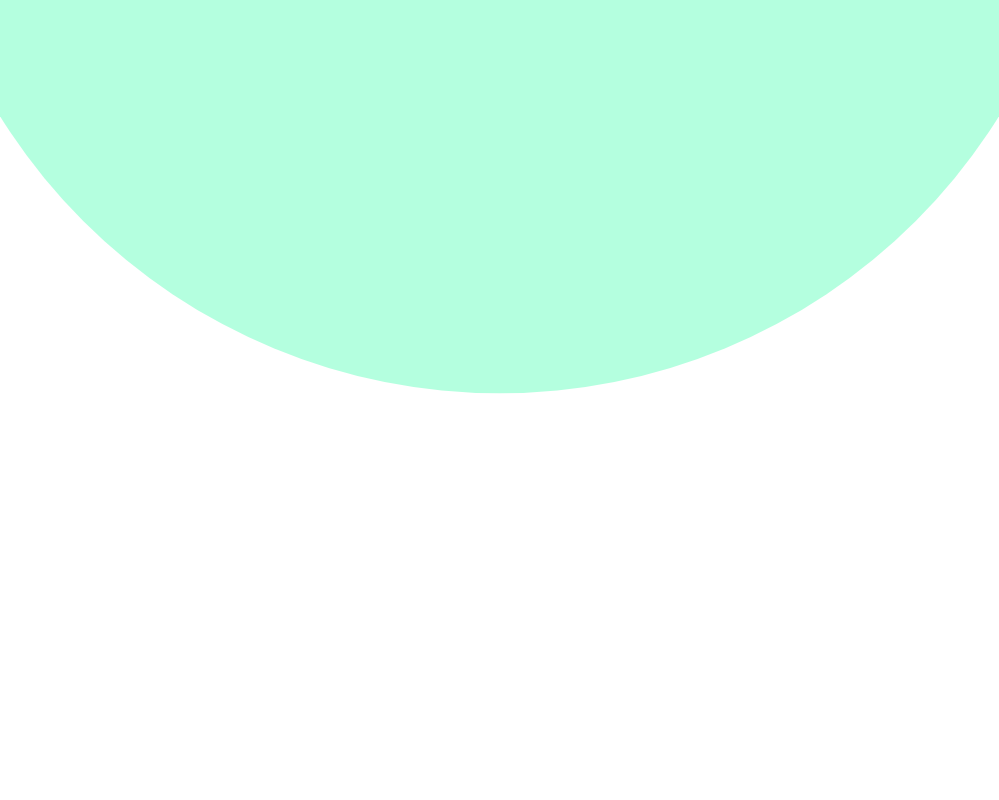
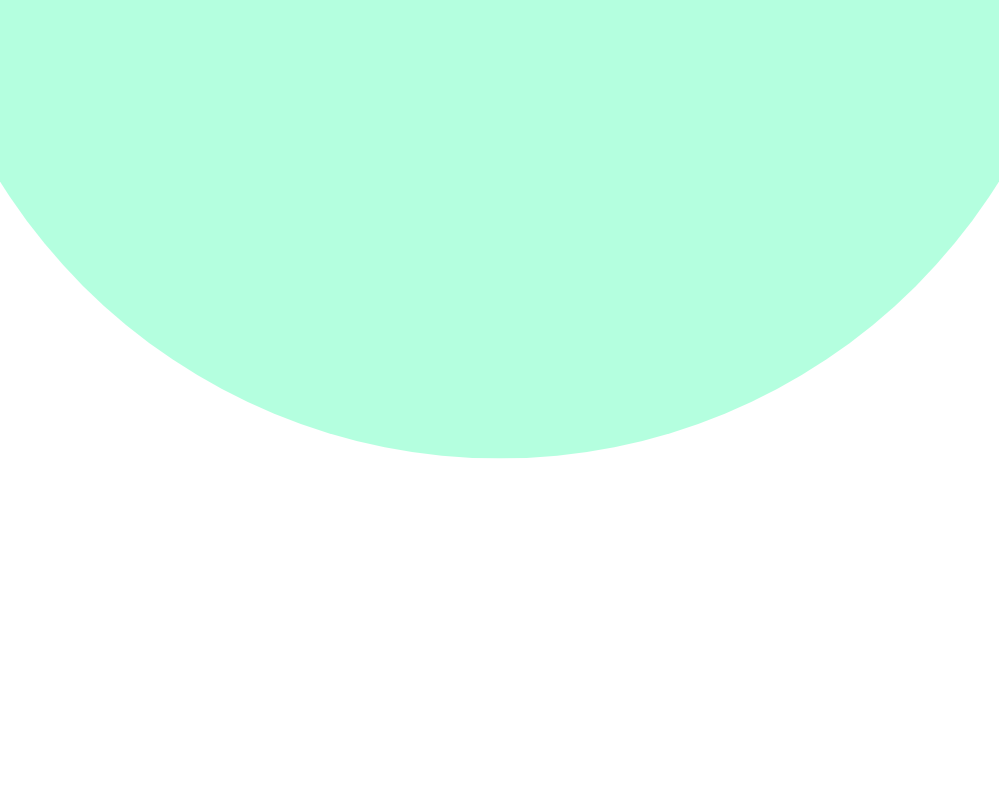
Ajustando parte superior

Changed region(s): [[0.0, 0.125, 1.0, 0.5938]]

diff --git a/css/ajuda.css b/css/ajuda.css
@@ -248,16 +248,16 @@ input[type="text"] {
 
     /* Tablet */
 @media (min-width: 600px) and (max-width:999px){
-    
+
     .corpo{
-        background-image: url(../img/Mobile.png);
+        background-image: url(../img/Tablet.png);
         background-position: top;
         background-repeat: no-repeat;
     }
     
     input[type="text"] {
-        width: 300px;
-        padding: 5px;
+        width: 450px;
+        padding: 10px;
         border: 0px solid #ccc;
         font-size: 16px;
         background-color: #fff;
@@ -278,7 +278,7 @@ input[type="text"] {
     .direita h1 {
         margin-top: 5rem;
         margin-bottom: 1rem;
-        font-size: 2rem;
+        font-size: 2.5rem;
     }
     
     .container {
@@ -290,7 +290,7 @@ input[type="text"] {
     .section1, .section2 {
         margin-top: 0rem;
         display: flex;
-        flex-direction: column;
+        flex-direction: row;
         align-items: center;
     }
     
@@ -301,7 +301,7 @@ input[type="text"] {
     }
     
     .section2 {
-        margin-bottom: 3rem;
+        margin-bottom: 0rem;
     }
 
     .esquerda {
